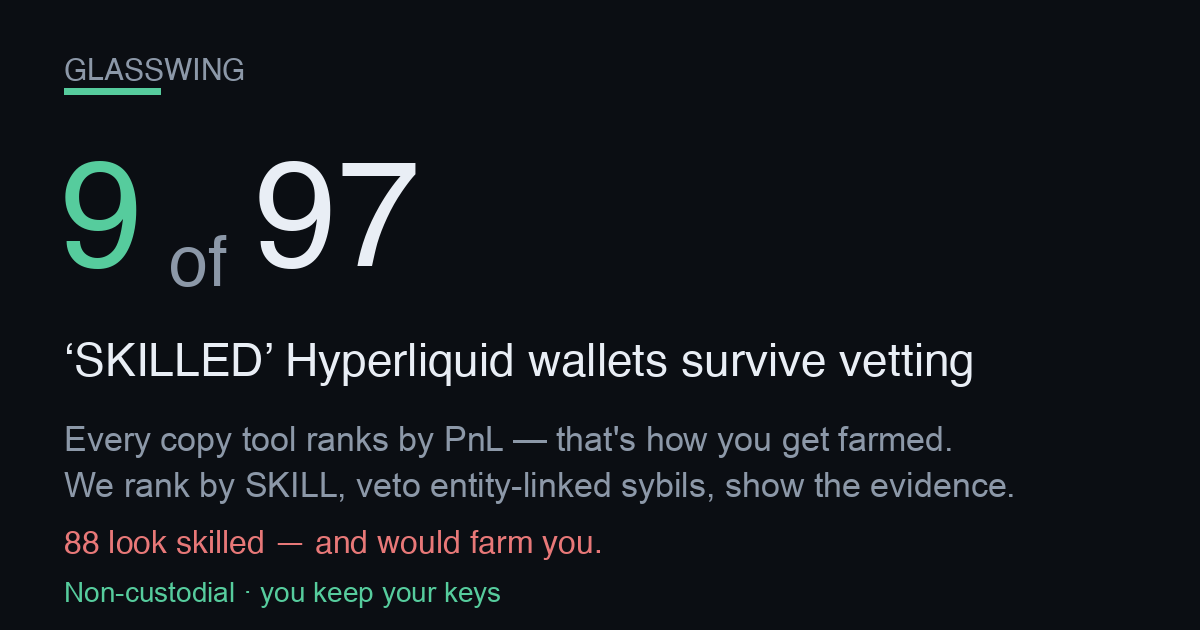
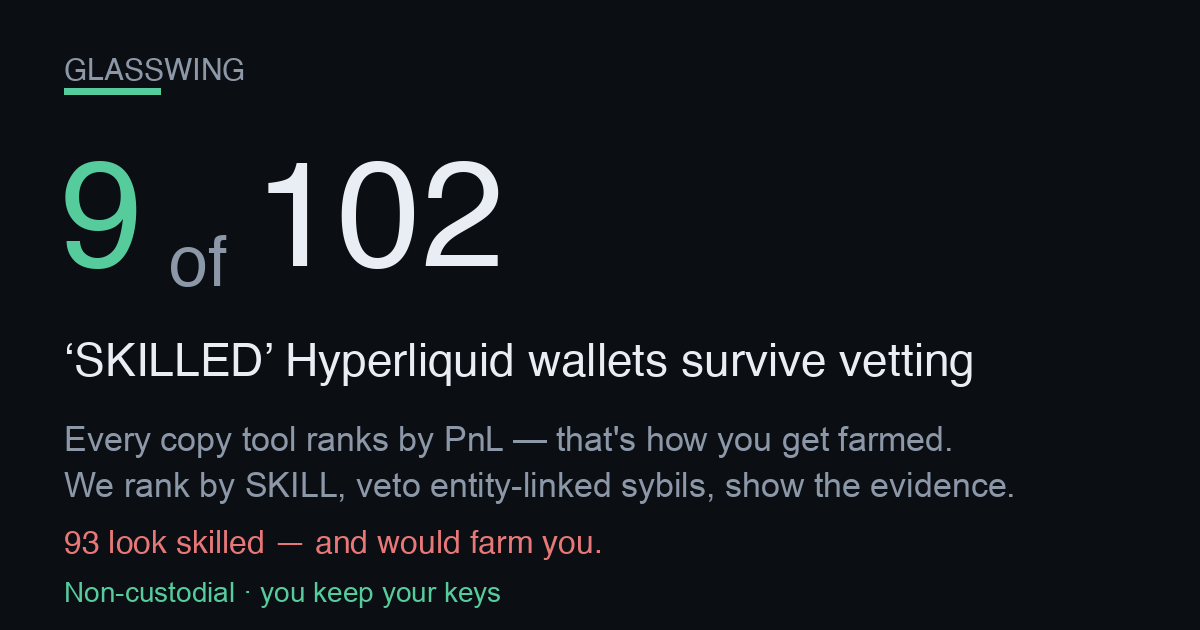
publish funnel 2026-07-30T07:45:56Z

Changed region(s): [[0.2158, 0.2413, 0.4317, 0.4222], [0.0617, 0.8444, 0.0925, 0.8746]]

diff --git a/screener.html b/screener.html
@@ -57,4 +57,4 @@ padding:11px 22px;font-size:15px;font-weight:800;border:1px solid var(--good)}
 footer{margin-top:34px;color:var(--muted);font-size:12px;line-height:1.6;
 border-top:1px solid var(--line);padding-top:16px}
 footer b{color:var(--ink)}
-</style></head><body><div class="wrap"><div class="nav"><a href="./index.html">&larr; Glasswing home</a><span class="sep">|</span><span>Edge Screener</span><span class="sep">|</span><a href="./dex.html">Copy a vetted leader</a></div><div class="hero"><h1>Hyperliquid Edge Screener</h1><div class="sub">Where&rsquo;s the carry, where a maker earns, and what&rsquo;s moving on Hyperliquid &mdash; live, computed from the public API. Bookmark it. Every number below is real and timestamped.</div><div class="stamp">Data as of <b>2026-07-29T13:13:28Z</b> &middot; rendered 2026-07-29T13:13:28Z &middot; 177 perps &middot; 88 HIP-3 (xyz) markets scanned</div></div><h2>Top funding &mdash; the carry table <span class="hint">perps ranked by annualized funding. Positive = longs pay shorts (a delta-neutral short earns it).</span></h2><div class="tblwrap"><table><thead><tr><th>Coin</th><th>Funding / hr</th><th>Annualized</th><th>Who pays</th><th>Open interest</th><th>24h volume</th></tr></thead><tbody><tr><td class="coin">ACE<span class="tag thin" title="Low liquidity/OI &mdash; ADL &amp; liquidation risk; funding can flip">&#9888; thin</span></td><td>-0.0234%</td><td class="neg">-204.6%</td><td><span class="tag shorts">shorts pay</span></td><td>$367K</td><td>$501K</td></tr><tr><td class="coin">0G<span class="tag thin" title="Low liquidity/OI &mdash; ADL &amp; liquidation risk; funding can flip">&#9888; thin</span></td><td>-0.0211%</td><td class="neg">-184.7%</td><td><span class="tag shorts">shorts pay</span></td><td>$210K</td><td>$437K</td></tr><tr><td class="coin">SNX</td><td>-0.0135%</td><td class="neg">-117.8%</td><td><span class="tag shorts">shorts pay</span></td><td>$722K</td><td>$356K</td></tr><tr><td class="coin">USUAL<span class="tag thin" title="Low liquidity/OI &mdash; ADL &amp; liquidation risk; funding can flip">&#9888; thin</span></td><td>-0.0112%</td><td class="neg">-98.4%</td><td><span class="tag shorts">shorts pay</span></td><td>$150K</td><td>$71K</td></tr><tr><td class="coin">ZETA<span class="tag thin" title="Low liquidity/OI &mdash; ADL &amp; liquidation risk; funding can flip">&#9888; thin</span></td><td>-0.0109%</td><td class="neg">-95.5%</td><td><span class="tag shorts">shorts pay</span></td><td>$659K</td><td>$194K</td></tr><tr><td class="coin">XAI<span class="tag thin" title="Low liquidity/OI &mdash; ADL &amp; liquidation risk; funding can flip">&#9888; thin</span></td><td>-0.0091%</td><td class="neg">-79.7%</td><td><span class="tag shorts">shorts pay</span></td><td>$327K</td><td>$32K</td></tr><tr><td class="coin">EIGEN</td><td>-0.0082%</td><td class="neg">-71.8%</td><td><span class="tag shorts">shorts pay</span></td><td>$4.1M</td><td>$1.2M</td></tr><tr><td class="coin">TURBO<span class="tag thin" title="Low liquidity/OI &mdash; ADL &amp; liquidation risk; funding can flip">&#9888; thin</span></td><td>-0.0077%</td><td class="neg">-67.8%</td><td><span class="tag shorts">shorts pay</span></td><td>$245K</td><td>$195K</td></tr><tr><td class="coin">SUPER<span class="tag thin" title="Low liquidity/OI &mdash; ADL &amp; liquidation risk; funding can flip">&#9888; thin</span></td><td>-0.0075%</td><td class="neg">-65.9%</td><td><span class="tag shorts">shorts pay</span></td><td>$211K</td><td>$85K</td></tr><tr><td class="coin">MNT</td><td>-0.0073%</td><td class="neg">-64.0%</td><td><span class="tag shorts">shorts pay</span></td><td>$1.7M</td><td>$631K</td></tr><tr><td class="coin">IMX</td><td>-0.0072%</td><td class="neg">-62.9%</td><td><span class="tag shorts">shorts pay</span></td><td>$1.0M</td><td>$463K</td></tr><tr><td class="coin">S<span class="tag thin" title="Low liquidity/OI &mdash; ADL &amp; liquidation risk; funding can flip">&#9888; thin</span></td><td>-0.0062%</td><td class="neg">-54.7%</td><td><span class="tag shorts">shorts pay</span></td><td>$640K</td><td>$131K</td></tr></tbody></table></div><h2>Widest HIP-3 spreads &mdash; where a maker earns <span class="hint">xyz: markets by impact-price spread vs the ~0.6bps round-trip fee. A resting limit order captures the gap.</span></h2><div class="tblwrap"><table><thead><tr><th>Market</th><th>Spread</th><th>vs 0.6bps fee</th><th>Mid</th><th>24h volume</th></tr></thead><tbody><tr><td class="coin">xyz:GIGADEV<span class="tag gm">growth</span></td><td>390.6 bps</td><td class="pos">+390.0 bps</td><td>56.6555</td><td>$442K</td></tr><tr><td class="coin">xyz:BIRD<span class="tag gm">growth</span></td><td>233.0 bps</td><td class="pos">+232.4 bps</td><td>2.3742</td><td>$167K</td></tr><tr><td class="coin">xyz:KR200<span class="tag gm">growth</span></td><td>87.0 bps</td><td class="pos">+86.4 bps</td><td>925.2900</td><td>$6.1M</td></tr><tr><td class="coin">xyz:SOFTBANK<span class="tag gm">growth</span></td><td>77.1 bps</td><td class="pos">+76.5 bps</td><td>29.5020</td><td>$221K</td></tr><tr><td class="coin">xyz:PURRDAT</td><td>66.9 bps</td><td class="pos">+66.3 bps</td><td>6.1513</td><td>$2.4M</td></tr><tr><td class="coin">xyz:MINIMAX<span class="tag gm">growth</span></td><td>64.8 bps</td><td class="pos">+64.2 bps</td><td>26.8740</td><td>$3.3M</td></tr><tr><td class="coin">xyz:BOT<span class="tag gm">growth</span></td><td>55.4 bps</td><td class="pos">+54.8 bps</td><td>29.6055</td><td>$3.6M</td></tr><tr><td class="coin">xyz:SHAZ<span class="tag gm">growth</span></td><td>45.1 bps</td><td class="pos">+44.5 bps</td><td>46.0510</td><td>$2.1M</td></tr><tr><td class="coin">xyz:ZHIPU<span class="tag gm">growth</span></td><td>43.7 bps</td><td class="pos">+43.1 bps</td><td>133.1850</td><td>$6.2M</td></tr><tr><td class="coin">xyz:URNM<span class="tag gm">growth</span></td><td>29.6 bps</td><td class="pos">+29.0 bps</td><td>48.4550</td><td>$228K</td></tr><tr><td class="coin">xyz:AMAT<span class="tag gm">growth</span></td><td>26.0 bps</td><td class="pos">+25.4 bps</td><td>461.8700</td><td>$1.7M</td></tr><tr><td class="coin">xyz:SMH<span class="tag gm">growth</span></td><td>25.6 bps</td><td class="pos">+25.0 bps</td><td>525.6800</td><td>$4.1M</td></tr></tbody></table></div><h2>Momentum &amp; volume &mdash; what&rsquo;s moving <span class="hint">perps by 24h volume with the 24h price change (mark vs prior-day).</span></h2><div class="tblwrap"><table><thead><tr><th>Coin</th><th>24h volume</th><th>24h change</th><th>Mark</th></tr></thead><tbody><tr><td class="coin">BTC</td><td>$1.85B</td><td class="pos">+1.23%</td><td>64,268.00</td></tr><tr><td class="coin">ETH</td><td>$1.03B</td><td class="pos">+0.70%</td><td>1,903.46</td></tr><tr><td class="coin">HYPE</td><td>$265.8M</td><td class="pos">+1.47%</td><td>55.0820</td></tr><tr><td class="coin">SOL</td><td>$176.1M</td><td class="pos">+0.35%</td><td>73.4850</td></tr><tr><td class="coin">ZEC</td><td>$87.4M</td><td class="neg">-0.91%</td><td>460.2900</td></tr><tr><td class="coin">XRP</td><td>$39.9M</td><td class="pos">+2.19%</td><td>1.0770</td></tr><tr><td class="coin">LIT</td><td>$31.4M</td><td class="pos">+3.24%</td><td>2.2409</td></tr><tr><td class="coin">NEAR</td><td>$21.8M</td><td class="neg">-4.74%</td><td>1.5828</td></tr><tr><td class="coin">AAVE</td><td>$21.3M</td><td class="neg">-0.42%</td><td>97.9410</td></tr><tr><td class="coin">PUMP</td><td>$20.7M</td><td class="neg">-6.60%</td><td>0.001869</td></tr><tr><td class="coin">CASHCAT</td><td>$14.6M</td><td class="neg">-0.08%</td><td>0.037094</td></tr><tr><td class="coin">kPEPE</td><td>$11.3M</td><td class="neg">-2.46%</td><td>0.002739</td></tr></tbody></table></div><div class="cta"><h2>These are the opportunities. Now copy the people who trade them.</h2><p class="lead">Spotting the carry and the spreads is the easy part &mdash; sizing, timing and risk are where most traders bleed. Copy the <b>skill-vetted</b> Hyperliquid leaders who actually trade these edges. Non-custodial: <b>you keep your keys and your funds</b> the entire time.</p><div class="row"><a class="btn" href="./index.html">See the vetted leaders &rarr;</a><a class="btn ghost" href="./dex.html">Start copying (non-custodial) &rarr;</a></div><div class="nc"><b>Non-custodial &amp; honest:</b> we never hold your keys or funds. Copying routes through a <b>0.01%</b> (1bp) on-chain builder fee &mdash; that is the only thing we ever charge, and it is the same fee shown on the copy page. Nothing on this screener is executed for you; it is information only.</div></div><footer><b>Not financial advice.</b> Funding rates, spreads and volumes are live snapshots that change every block; figures can be stale by the time you act. A high funding rate is <b>not free money</b> &mdash; the biggest rates sit on the thinnest, most crowded books (flagged &#9888; thin), where funding can flip against you and auto-deleveraging (ADL) or liquidation can close your position. &ldquo;Spread&rdquo; here is the impact-price spread (a conservative maker signal), not a guaranteed fill. HIP-3 markets are experimental. Do your own research and size responsibly. Glasswing is <b>non-custodial</b> &mdash; we never take custody of your keys or funds.</footer></div></body></html>
+</style></head><body><div class="wrap"><div class="nav"><a href="./index.html">&larr; Glasswing home</a><span class="sep">|</span><span>Edge Screener</span><span class="sep">|</span><a href="./dex.html">Copy a vetted leader</a></div><div class="hero"><h1>Hyperliquid Edge Screener</h1><div class="sub">Where&rsquo;s the carry, where a maker earns, and what&rsquo;s moving on Hyperliquid &mdash; live, computed from the public API. Bookmark it. Every number below is real and timestamped.</div><div class="stamp">Data as of <b>2026-07-30T07:43:47Z</b> &middot; rendered 2026-07-30T07:43:47Z &middot; 177 perps &middot; 88 HIP-3 (xyz) markets scanned</div></div><h2>Top funding &mdash; the carry table <span class="hint">perps ranked by annualized funding. Positive = longs pay shorts (a delta-neutral short earns it).</span></h2><div class="tblwrap"><table><thead><tr><th>Coin</th><th>Funding / hr</th><th>Annualized</th><th>Who pays</th><th>Open interest</th><th>24h volume</th></tr></thead><tbody><tr><td class="coin">DYM<span class="tag thin" title="Low liquidity/OI &mdash; ADL &amp; liquidation risk; funding can flip">&#9888; thin</span></td><td>-0.0286%</td><td class="neg">-250.4%</td><td><span class="tag shorts">shorts pay</span></td><td>$124K</td><td>$169K</td></tr><tr><td class="coin">IMX</td><td>-0.0136%</td><td class="neg">-119.3%</td><td><span class="tag shorts">shorts pay</span></td><td>$981K</td><td>$259K</td></tr><tr><td class="coin">BERA</td><td>-0.0111%</td><td class="neg">-96.9%</td><td><span class="tag shorts">shorts pay</span></td><td>$1.3M</td><td>$428K</td></tr><tr><td class="coin">ZK<span class="tag thin" title="Low liquidity/OI &mdash; ADL &amp; liquidation risk; funding can flip">&#9888; thin</span></td><td>-0.0109%</td><td class="neg">-95.8%</td><td><span class="tag shorts">shorts pay</span></td><td>$537K</td><td>$185K</td></tr><tr><td class="coin">ACE<span class="tag thin" title="Low liquidity/OI &mdash; ADL &amp; liquidation risk; funding can flip">&#9888; thin</span></td><td>-0.0109%</td><td class="neg">-95.7%</td><td><span class="tag shorts">shorts pay</span></td><td>$382K</td><td>$433K</td></tr><tr><td class="coin">SAGA<span class="tag thin" title="Low liquidity/OI &mdash; ADL &amp; liquidation risk; funding can flip">&#9888; thin</span></td><td>+0.0098%</td><td class="pos">+86.3%</td><td><span class="tag longs">longs pay</span></td><td>$1.9M</td><td>$64K</td></tr><tr><td class="coin">MINA<span class="tag thin" title="Low liquidity/OI &mdash; ADL &amp; liquidation risk; funding can flip">&#9888; thin</span></td><td>-0.0089%</td><td class="neg">-77.6%</td><td><span class="tag shorts">shorts pay</span></td><td>$807K</td><td>$153K</td></tr><tr><td class="coin">S<span class="tag thin" title="Low liquidity/OI &mdash; ADL &amp; liquidation risk; funding can flip">&#9888; thin</span></td><td>-0.0087%</td><td class="neg">-76.6%</td><td><span class="tag shorts">shorts pay</span></td><td>$678K</td><td>$128K</td></tr><tr><td class="coin">AXS<span class="tag thin" title="Low liquidity/OI &mdash; ADL &amp; liquidation risk; funding can flip">&#9888; thin</span></td><td>-0.0085%</td><td class="neg">-74.8%</td><td><span class="tag shorts">shorts pay</span></td><td>$325K</td><td>$138K</td></tr><tr><td class="coin">STABLE</td><td>-0.0081%</td><td class="neg">-71.4%</td><td><span class="tag shorts">shorts pay</span></td><td>$2.2M</td><td>$412K</td></tr><tr><td class="coin">2Z<span class="tag thin" title="Low liquidity/OI &mdash; ADL &amp; liquidation risk; funding can flip">&#9888; thin</span></td><td>-0.0076%</td><td class="neg">-66.6%</td><td><span class="tag shorts">shorts pay</span></td><td>$568K</td><td>$207K</td></tr><tr><td class="coin">0G<span class="tag thin" title="Low liquidity/OI &mdash; ADL &amp; liquidation risk; funding can flip">&#9888; thin</span></td><td>-0.0070%</td><td class="neg">-61.6%</td><td><span class="tag shorts">shorts pay</span></td><td>$166K</td><td>$415K</td></tr></tbody></table></div><h2>Widest HIP-3 spreads &mdash; where a maker earns <span class="hint">xyz: markets by impact-price spread vs the ~0.6bps round-trip fee. A resting limit order captures the gap.</span></h2><div class="tblwrap"><table><thead><tr><th>Market</th><th>Spread</th><th>vs 0.6bps fee</th><th>Mid</th><th>24h volume</th></tr></thead><tbody><tr><td class="coin">xyz:BIRD<span class="tag gm">growth</span></td><td>338.2 bps</td><td class="pos">+337.6 bps</td><td>2.3514</td><td>$208K</td></tr><tr><td class="coin">xyz:GIGADEV<span class="tag gm">growth</span></td><td>252.2 bps</td><td class="pos">+251.6 bps</td><td>54.3515</td><td>$365K</td></tr><tr><td class="coin">xyz:SOFTBANK<span class="tag gm">growth</span></td><td>105.8 bps</td><td class="pos">+105.2 bps</td><td>28.2040</td><td>$215K</td></tr><tr><td class="coin">xyz:KR200<span class="tag gm">growth</span></td><td>93.3 bps</td><td class="pos">+92.7 bps</td><td>866.4600</td><td>$4.2M</td></tr><tr><td class="coin">xyz:SHAZ<span class="tag gm">growth</span></td><td>88.1 bps</td><td class="pos">+87.5 bps</td><td>40.0070</td><td>$1.2M</td></tr><tr><td class="coin">xyz:BOT<span class="tag gm">growth</span></td><td>87.7 bps</td><td class="pos">+87.1 bps</td><td>27.2840</td><td>$1.6M</td></tr><tr><td class="coin">xyz:PURRDAT</td><td>59.2 bps</td><td class="pos">+58.6 bps</td><td>5.9555</td><td>$2.3M</td></tr><tr><td class="coin">xyz:QNT<span class="tag gm">growth</span></td><td>48.5 bps</td><td class="pos">+47.9 bps</td><td>47.6120</td><td>$1.7M</td></tr><tr><td class="coin">xyz:KIOXIA<span class="tag gm">growth</span></td><td>37.9 bps</td><td class="pos">+37.3 bps</td><td>241.6150</td><td>$14.6M</td></tr><tr><td class="coin">xyz:URNM<span class="tag gm">growth</span></td><td>37.4 bps</td><td class="pos">+36.8 bps</td><td>46.8650</td><td>$347K</td></tr><tr><td class="coin">xyz:ZM<span class="tag gm">growth</span></td><td>33.3 bps</td><td class="pos">+32.7 bps</td><td>92.4100</td><td>$836K</td></tr><tr><td class="coin">xyz:MINIMAX<span class="tag gm">growth</span></td><td>29.7 bps</td><td class="pos">+29.1 bps</td><td>25.8795</td><td>$4.0M</td></tr></tbody></table></div><h2>Momentum &amp; volume &mdash; what&rsquo;s moving <span class="hint">perps by 24h volume with the 24h price change (mark vs prior-day).</span></h2><div class="tblwrap"><table><thead><tr><th>Coin</th><th>24h volume</th><th>24h change</th><th>Mark</th></tr></thead><tbody><tr><td class="coin">BTC</td><td>$2.32B</td><td class="neg">-0.73%</td><td>63,999.00</td></tr><tr><td class="coin">ETH</td><td>$1.02B</td><td class="neg">-0.61%</td><td>1,903.30</td></tr><tr><td class="coin">HYPE</td><td>$268.8M</td><td class="neg">-2.62%</td><td>53.7655</td></tr><tr><td class="coin">SOL</td><td>$185.8M</td><td class="neg">-0.65%</td><td>73.5340</td></tr><tr><td class="coin">ZEC</td><td>$62.8M</td><td class="pos">+1.97%</td><td>475.5900</td></tr><tr><td class="coin">XRP</td><td>$37.8M</td><td class="neg">-0.90%</td><td>1.0781</td></tr><tr><td class="coin">CASHCAT</td><td>$19.8M</td><td class="pos">+6.13%</td><td>0.043115</td></tr><tr><td class="coin">LIT</td><td>$19.1M</td><td class="neg">-3.21%</td><td>2.1841</td></tr><tr><td class="coin">AAVE</td><td>$18.6M</td><td class="neg">-1.33%</td><td>96.5950</td></tr><tr><td class="coin">PUMP</td><td>$17.0M</td><td class="pos">+1.94%</td><td>0.001892</td></tr><tr><td class="coin">NEAR</td><td>$16.5M</td><td class="pos">+1.92%</td><td>1.6291</td></tr><tr><td class="coin">UNI</td><td>$15.8M</td><td class="pos">+4.69%</td><td>3.9899</td></tr></tbody></table></div><div class="cta"><h2>These are the opportunities. Now copy the people who trade them.</h2><p class="lead">Spotting the carry and the spreads is the easy part &mdash; sizing, timing and risk are where most traders bleed. Copy the <b>skill-vetted</b> Hyperliquid leaders who actually trade these edges. Non-custodial: <b>you keep your keys and your funds</b> the entire time.</p><div class="row"><a class="btn" href="./index.html">See the vetted leaders &rarr;</a><a class="btn ghost" href="./dex.html">Start copying (non-custodial) &rarr;</a></div><div class="nc"><b>Non-custodial &amp; honest:</b> we never hold your keys or funds. Copying routes through a <b>0.01%</b> (1bp) on-chain builder fee &mdash; that is the only thing we ever charge, and it is the same fee shown on the copy page. Nothing on this screener is executed for you; it is information only.</div></div><footer><b>Not financial advice.</b> Funding rates, spreads and volumes are live snapshots that change every block; figures can be stale by the time you act. A high funding rate is <b>not free money</b> &mdash; the biggest rates sit on the thinnest, most crowded books (flagged &#9888; thin), where funding can flip against you and auto-deleveraging (ADL) or liquidation can close your position. &ldquo;Spread&rdquo; here is the impact-price spread (a conservative maker signal), not a guaranteed fill. HIP-3 markets are experimental. Do your own research and size responsibly. Glasswing is <b>non-custodial</b> &mdash; we never take custody of your keys or funds.</footer></div></body></html>

diff --git a/track.html b/track.html
@@ -62,35 +62,35 @@ font-weight:600;font-size:14px}
 <div class="wrap">
   <div class="hero">
     <h1>Self-verifying on-chain track record</h1>
-    <div class="big">$380.77</div>
+    <div class="big">$242.72</div>
     <div class="sub">current on-chain equity (perp + vault + spot USDC)</div>
     <div class="addr">0xbe6C1b09662BbE52CC93279D103Feb27985DdBc1</div>
-    <div class="stage early">10 days live — EARLY / NOT YET A MATURE RECORD</div>
+    <div class="stage early">11 days live — EARLY / NOT YET A MATURE RECORD</div>
   </div>
 
-  <div class="warnbar">EARLY-STAGE: this record is only 10 days live. It is NOT a mature track record and NOT an APR promise. We deliberately do not annualize a sample this young. Verify every figure yourself below.</div>
+  <div class="warnbar">EARLY-STAGE: this record is only 11 days live. It is NOT a mature track record and NOT an APR promise. We deliberately do not annualize a sample this young. Verify every figure yourself below.</div>
 
   <h2>On-chain figures <span style="color:var(--muted);font-weight:400;font-size:13px">
   &mdash; every one reproducible from the public info API</span></h2>
-  <table><tbody><tr><td class="k">On-chain equity (perp + vault + spot USDC)</td><td class="v">$380.77</td></tr><tr><td class="k">Perp account value</td><td class="v">$221.15</td></tr><tr><td class="k">Vault equity</td><td class="v">$50.01</td></tr><tr><td class="k">Spot USDC</td><td class="v">$109.61</td></tr><tr><td class="k">Withdrawable</td><td class="v">$112.06</td></tr></tbody></table>
+  <table><tbody><tr><td class="k">On-chain equity (perp + vault + spot USDC)</td><td class="v">$242.72</td></tr><tr><td class="k">Perp account value</td><td class="v">$192.65</td></tr><tr><td class="k">Vault equity</td><td class="v">$50.06</td></tr><tr><td class="k">Spot USDC</td><td class="v">$0.02</td></tr><tr><td class="k">Withdrawable</td><td class="v">$43.77</td></tr></tbody></table>
 
-  <h2>Vault deposits (on-chain)</h2><table><thead><tr><th>Vault address</th><th>Our equity</th></tr></thead><tbody><tr><td class="mono">0x2431edfcb662e6ff6deab113cc91878a0b53fb0f</td><td class="v">$0.01</td></tr><tr><td class="mono">0x697bc3dd77539fa84156d0e1c95287ea5524fd6b</td><td class="v">$25.96</td></tr><tr><td class="mono">0x8825e6ed11c7f9c0874579c9f4bba192b9e81c8f</td><td class="v">$0.12</td></tr><tr><td class="mono">0xc71f5a493b937e4b1798b86510630336a6dfd804</td><td class="v">$23.93</td></tr></tbody></table>
+  <h2>Vault deposits (on-chain)</h2><table><thead><tr><th>Vault address</th><th>Our equity</th></tr></thead><tbody><tr><td class="mono">0x2431edfcb662e6ff6deab113cc91878a0b53fb0f</td><td class="v">$0.01</td></tr><tr><td class="mono">0x697bc3dd77539fa84156d0e1c95287ea5524fd6b</td><td class="v">$26.04</td></tr><tr><td class="mono">0x8825e6ed11c7f9c0874579c9f4bba192b9e81c8f</td><td class="v">$0.12</td></tr><tr><td class="mono">0xc71f5a493b937e4b1798b86510630336a6dfd804</td><td class="v">$23.89</td></tr></tbody></table>
 
   <h2>Performance <span style="color:var(--muted);font-weight:400;font-size:13px">
   &mdash; honest stage, no annualization</span></h2>
-  <table><tbody><tr><td class="k">Days live (our formal record)</td><td class="v">10</td></tr><tr><td class="k">Maturity</td><td class="v">EARLY / NOT YET A MATURE RECORD</td></tr><tr><td class="k">Current real strategy income / day</td><td class="v">$0.0713</td></tr><tr><td class="k">Cumulative net income (if attributed)</td><td class="v">$0.6530</td></tr><tr><td class="k">Annualized APR</td><td class="v">intentionally NOT computed (record too young)</td></tr></tbody></table>
+  <table><tbody><tr><td class="k">Days live (our formal record)</td><td class="v">11</td></tr><tr><td class="k">Maturity</td><td class="v">EARLY / NOT YET A MATURE RECORD</td></tr><tr><td class="k">Current real strategy income / day</td><td class="v">$0.0678</td></tr><tr><td class="k">Cumulative net income (if attributed)</td><td class="v">$0.6832</td></tr><tr><td class="k">Annualized APR</td><td class="v">intentionally NOT computed (record too young)</td></tr></tbody></table>
 
   <h2>Strategy arms <span style="color:var(--muted);font-weight:400;font-size:13px">
   &mdash; internal marks, cross-checkable against chain equity</span></h2>
-  <table><thead><tr><th>Arm</th><th>Status</th><th>Real / day</th><th>Note</th></tr></thead><tbody><tr><td class="v">carry</td><td><span class="badge live">live</span></td><td class="v">$0.0713</td><td class="k"></td></tr><tr><td class="v">copy</td><td><span class="badge live">live</span></td><td class="v">$0.0000</td><td class="k"></td></tr><tr><td class="v">builder</td><td><span class="badge off">—</span></td><td class="v">$0.0000</td><td class="k">proven live; $0 until distributed (∝ users&#x27; volume)</td></tr></tbody></table>
+  <table><thead><tr><th>Arm</th><th>Status</th><th>Real / day</th><th>Note</th></tr></thead><tbody><tr><td class="v">carry</td><td><span class="badge live">live</span></td><td class="v">$0.0678</td><td class="k"></td></tr><tr><td class="v">copy</td><td><span class="badge live">live</span></td><td class="v">$0.0000</td><td class="k"></td></tr><tr><td class="v">builder</td><td><span class="badge off">—</span></td><td class="v">$0.0000</td><td class="k">proven live; $0 until distributed (∝ users&#x27; volume)</td></tr></tbody></table>
 
   <h2>Reproduce it</h2>
   <div class="verify"><h3>Verify this yourself</h3><p>These are PUBLIC calls. Run them yourself against the address below and you will re-derive every on-chain figure on this page. equity_usd = perp accountValue + vault equity + spot USDC. Endpoint: https://api.hyperliquid.xyz/info</p><div class="cn">clearinghouseState &rarr; marginSummary.accountValue (perp value), withdrawable, marginSummary.totalMarginUsed</div><pre>curl -s -X POST https://api.hyperliquid.xyz/info -H &#x27;Content-Type: application/json&#x27; -d &#x27;{&quot;type&quot;: &quot;clearinghouseState&quot;, &quot;user&quot;: &quot;0xbe6C1b09662BbE52CC93279D103Feb27985DdBc1&quot;}&#x27;</pre><div class="cn">userVaultEquities &rarr; sum of each entry&#x27;s equity (our vault deposits)</div><pre>curl -s -X POST https://api.hyperliquid.xyz/info -H &#x27;Content-Type: application/json&#x27; -d &#x27;{&quot;type&quot;: &quot;userVaultEquities&quot;, &quot;user&quot;: &quot;0xbe6C1b09662BbE52CC93279D103Feb27985DdBc1&quot;}&#x27;</pre><div class="cn">spotClearinghouseState &rarr; balances[] where coin==USDC -&gt; total (spot USDC)</div><pre>curl -s -X POST https://api.hyperliquid.xyz/info -H &#x27;Content-Type: application/json&#x27; -d &#x27;{&quot;type&quot;: &quot;spotClearinghouseState&quot;, &quot;user&quot;: &quot;0xbe6C1b09662BbE52CC93279D103Feb27985DdBc1&quot;}&#x27;</pre></div>
 
   <footer>
     <div>Self-verifying: every on-chain figure is reproducible by querying Hyperliquid&#x27;s public info API for the stated address. Internal daily marks are cross-checkable against on-chain equity. EARLY-STAGE record — not a mature track record, not an APR promise, not financial advice. Past performance != future results.</div>
-    <div class="stamp">Generated at 2026-07-29T13:12:34Z &middot; internal marks
-    mtime 2026-07-29T10:53:31Z &middot; static receipt, no live
+    <div class="stamp">Generated at 2026-07-30T07:42:45Z &middot; internal marks
+    mtime 2026-07-30T04:54:11Z &middot; static receipt, no live
     authority — this page never trades or arms.</div>
   </footer>
 </div>

diff --git a/index.html b/index.html
@@ -3,8 +3,8 @@
 <head>
 <meta charset="utf-8">
 <meta name="viewport" content="width=device-width, initial-scale=1">
-<title>9 of 97 SKILLED Hyperliquid wallets survive vetting</title>
-<meta name="description" content="9 of 97 leaderboard-SKILLED Hyperliquid wallets survive vetting. Copy only the survivors, non-custodial — you keep your keys and funds.">
+<title>9 of 102 SKILLED Hyperliquid wallets survive vetting</title>
+<meta name="description" content="9 of 102 leaderboard-SKILLED Hyperliquid wallets survive vetting. Copy only the survivors, non-custodial — you keep your keys and funds.">
 <link rel="canonical" href="https://dynobit.github.io/glasswing/">
 <meta name="robots" content="index,follow">
 <meta name="theme-color" content="#0b0e13">
@@ -14,14 +14,14 @@
      head, not this. og:url is the canonical Pages home so every share resolves here. -->
 <meta property="og:type" content="website">
 <meta property="og:site_name" content="Glasswing">
-<meta property="og:title" content="9 of 97 SKILLED Hyperliquid wallets survive vetting">
+<meta property="og:title" content="9 of 102 SKILLED Hyperliquid wallets survive vetting">
 <meta property="og:description" content="Every copy tool ranks leaders by PnL — which is how you get farmed. This ranks by SKILL, then vetoes entity-linked sybils, and shows the evidence for every reject. Non-custodial: you keep your keys.">
 <meta property="og:url" content="https://dynobit.github.io/glasswing/">
 <meta property="og:image" content="https://dynobit.github.io/glasswing/og-card.png">
 <meta property="og:image:width" content="1200">
 <meta property="og:image:height" content="630">
 <meta name="twitter:card" content="summary_large_image">
-<meta name="twitter:title" content="9 of 97 SKILLED Hyperliquid wallets survive vetting">
+<meta name="twitter:title" content="9 of 102 SKILLED Hyperliquid wallets survive vetting">
 <meta name="twitter:description" content="Skill-ranked (not PnL-ranked) HL copy-leaders, entity-linked sybils vetoed with evidence. Non-custodial.">
 <meta name="twitter:image" content="https://dynobit.github.io/glasswing/og-card.png">
 <style>
@@ -135,18 +135,18 @@ footer .nc{color:var(--good);font-weight:600}
 
   <!-- 1. HERO — the shareable hook (screenshot-worthy) -->
   <div class="hero">
-    <h1><span class="big">9 of 97</span> &lsquo;SKILLED&rsquo;
+    <h1><span class="big">9 of 102</span> &lsquo;SKILLED&rsquo;
     Hyperliquid wallets survive vetting</h1>
-    <div class="sub">The other <span class="trap">88</span> look skilled on a
+    <div class="sub">The other <span class="trap">93</span> look skilled on a
     raw copy leaderboard but would farm you &mdash; here are the
-    <span class="trap">88</span> that would. Entity-linked sybils,
-    wash-traded track records, or simply unscreened. 9.3% survive.
-    Universe: 820 scored wallets.</div>
+    <span class="trap">93</span> that would. Entity-linked sybils,
+    wash-traded track records, or simply unscreened. 8.8% survive.
+    Universe: 879 scored wallets.</div>
   </div>
 
   <!-- 2. THE WEDGE — the marketing (why us, not any other copy tool) -->
   <div class="wedge"><span class="them">Every other copy tool ranks all
-    97 by PnL and calls it a leaderboard.</span> We are the only one that
+    102 by PnL and calls it a leaderboard.</span> We are the only one that
     <b>flags the entity-linked and farming wallets with on-chain evidence</b> &mdash;
     transfer-graph linkage between wallets and arXiv memecoin farm-features &mdash;
     and shows you only the 9 that survive. A high PnL is exactly what a
@@ -268,7 +268,7 @@ footer .nc{color:var(--good);font-weight:600}
   <footer>
     <div class="nc">Non-custodial: we never hold your keys or funds. No server, no backend. Your browser talks only to Hyperliquid&#x27;s public API.</div>
     <div>Advisory. Skill = sign-randomization null vs luck. Entity veto = public transfer-graph linkage. Farm screen = arXiv:2601.08641 features (memecoin thresholds, HL-uncalibrated). Follower-realizable PnL is NOT yet proven — a PRE-COMMITTED forward test is in progress (0/2 windows, earliest 2026-08-13); the copyability claim publishes only when the pre-registered windows close, so it cannot be discovery-mined. Exit-alpha shown is advisory. Not financial advice.</div>
-    <div class="stamp">Generated at 2026-07-29T13:12:51Z &middot; single-file funnel,
+    <div class="stamp">Generated at 2026-07-30T07:43:08Z &middot; single-file funnel,
     no live authority. In-browser order signing is IMPLEMENTED (real secp256k1 +
     keccak + msgpack EIP-712 from a pinned CDN) but UNVALIDATED against Hyperliquid:
     mainnet is blocked until a testnet order is proven accepted.</div>

diff --git a/dex.html b/dex.html
@@ -112,8 +112,8 @@ footer .nc{color:var(--good);font-weight:600}
     funds and your keys the whole time. Two signatures in your own wallet, an
     ephemeral in-browser agent key that can trade but never withdraw, and a
     client-side loop that mirrors only the
-    <b>9 of 97</b> vetted survivors
-    (universe: 820 scored wallets). No server, no backend.</div>
+    <b>9 of 102</b> vetted survivors
+    (universe: 879 scored wallets). No server, no backend.</div>
     <div class="tag">static bundle &middot; IPFS-publishable &middot; revenue accrues on-chain</div>
   </div>
 
@@ -217,7 +217,7 @@ footer .nc{color:var(--good);font-weight:600}
   <footer>
     <div class="nc">Pure DEX, self-custodial. No server, no backend, no key we ever hold. Your browser talks only to Hyperliquid&#x27;s public API.</div>
     <div>Advisory. Skill = sign-randomization null vs luck. Entity veto = public transfer-graph linkage. Farm screen = arXiv:2601.08641 features (memecoin thresholds, HL-uncalibrated). Follower-realizable PnL is NOT yet proven — a PRE-COMMITTED forward test is in progress (0/2 windows, earliest 2026-08-13); the copyability claim publishes only when the pre-registered windows close, so it cannot be discovery-mined. Exit-alpha shown is advisory. Not financial advice.</div>
-    <div class="stamp">Generated at 2026-07-29T13:12:51Z &middot; static,
+    <div class="stamp">Generated at 2026-07-30T07:43:08Z &middot; static,
     self-custodial surface, no live authority. In-browser order signing is
     IMPLEMENTED (real secp256k1 + keccak + msgpack EIP-712 from a pinned CDN) but
     UNVALIDATED against Hyperliquid: mainnet is blocked until a testnet order is
